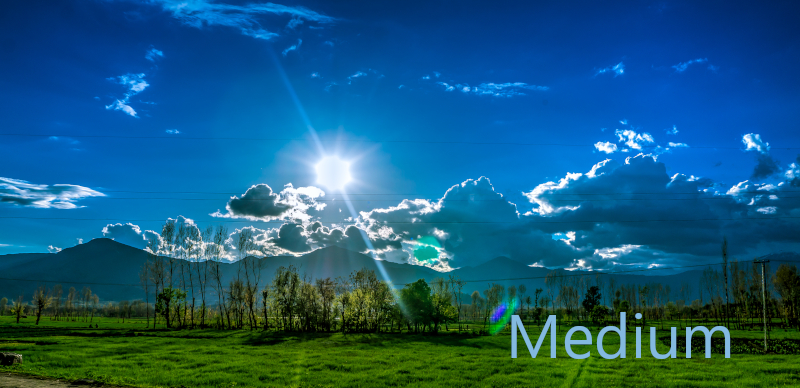
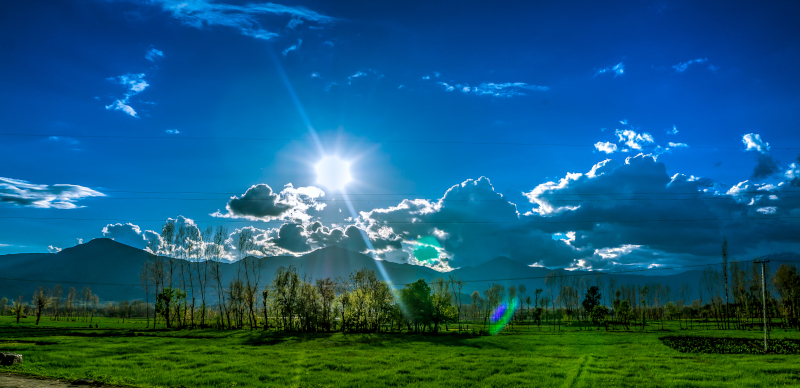
font changes and image updates

Changed region(s): [[0.625, 0.8041, 0.9375, 0.9278]]

diff --git a/assignments/weathersite/gallery.html b/assignments/weathersite/gallery.html
@@ -7,12 +7,13 @@
     <meta name="author" content="Thor Larsen">
     <meta name="description" content="Weather site project">
     <title>ActiveWeather.info | Gallery</title>
+    <link href="https://fonts.googleapis.com/css?family=Roboto" rel="stylesheet">
+    <link href="https://fonts.googleapis.com/css?family=Archivo+Narrow" rel="stylesheet"> 
     <link href="css/normalize.css" rel="stylesheet">
     <link href="css/small.css" rel="stylesheet">
     <link href="css/large.css" rel="stylesheet">
     <link href="css/medium.css" rel="stylesheet">
-    <link href="https://fonts.googleapis.com/css?family=Roboto" rel="stylesheet">
-    <link href="https://fonts.googleapis.com/css?family=Montserrat" rel="stylesheet"> 
+
 </head>
 <body>
     <header>
@@ -69,6 +70,8 @@
                 </figure>
             </div>
         </section>
+    </main>
+    <footer>
         <section class="contact">
             <iframe src="https://www.google.com/maps/embed?pb=!1m18!1m12!1m3!1d112629.21514714143!2d-111.94128591438759!3d42.1144955518364!2m3!1f0!2f0!3f0!3m2!1i1024!2i768!4f13.1!3m3!1m2!1s0x8754f78c7cda6c31%3A0xf1b3b4fc465a4a3f!2sPreston%2C+ID+83263!5e0!3m2!1sen!2sus!4v1549773533232" frameborder="0" style="border:0" allowfullscreen></iframe>
             <div class="address">
@@ -81,8 +84,6 @@
             </span>
             </div>
         </section>
-    </main>
-    <footer>
         <p>&copy; <span id=copyrightYear></span> Thor Larsen - Houston, Texas - <a href="http://www.byui.edu/online">BYU-Idaho Online</a></p>
         <span id="currentDate"></span>
     </footer>

diff --git a/assignments/weathersite/stormcenter.html b/assignments/weathersite/stormcenter.html
@@ -9,7 +9,7 @@
     <title>ActiveWeather.info | Storm Center</title>
     <link href="css/normalize.css" rel="stylesheet">
     <link href="https://fonts.googleapis.com/css?family=Roboto" rel="stylesheet">
-    <link href="https://fonts.googleapis.com/css?family=Montserrat" rel="stylesheet"> 
+    <link href="https://fonts.googleapis.com/css?family=Archivo+Narrow" rel="stylesheet"> 
     <link href="css/small.css" rel="stylesheet">
     <link href="css/large.css" rel="stylesheet">
     <link href="css/medium.css" rel="stylesheet">
@@ -83,6 +83,8 @@
                 <input type="submit" class="button" value="Send my report" >
             </form>
         </section>
+    </main>
+    <footer>
         <section class="contact">
             <iframe src="https://www.google.com/maps/embed?pb=!1m18!1m12!1m3!1d112629.21514714143!2d-111.94128591438759!3d42.1144955518364!2m3!1f0!2f0!3f0!3m2!1i1024!2i768!4f13.1!3m3!1m2!1s0x8754f78c7cda6c31%3A0xf1b3b4fc465a4a3f!2sPreston%2C+ID+83263!5e0!3m2!1sen!2sus!4v1549773533232" allowfullscreen></iframe>
             <div class="address">
@@ -95,8 +97,6 @@
             </span>
             </div>
         </section>
-    </main>
-    <footer>
         <p>&copy; <span id=copyrightYear></span> Thor Larsen - Houston, Texas - <a href="http://www.byui.edu/online">BYU-Idaho Online</a></p>
         <span id="currentDate"></span>
     </footer>

diff --git a/assignments/weathersite/index.html b/assignments/weathersite/index.html
@@ -9,7 +9,7 @@
     <title>ActiveWeather.info | Home</title>
     <link href="css/normalize.css" rel="stylesheet">
     <link href="https://fonts.googleapis.com/css?family=Roboto" rel="stylesheet">
-    <link href="https://fonts.googleapis.com/css?family=Montserrat" rel="stylesheet"> 
+    <link href="https://fonts.googleapis.com/css?family=Archivo+Narrow" rel="stylesheet"> 
     <link href="css/small.css" rel="stylesheet">
     <link href="css/large.css" rel="stylesheet">
     <link href="css/medium.css" rel="stylesheet">
@@ -43,6 +43,20 @@
         <section id="townarticles">
 
         </section>
+        <article id="story1">
+            <picture>
+                <img src="images/idahospring-500w.jpg" alt="Main Street, Preston, ID" />
+            </picture>
+            <h3>Idaho Spring</h3>
+            <p class="byline">by Les Nessman</p>
+            <p>
+                It takes spring quite a while to come to Idaho, but when it does 
+                it evicts winter with a vengeance. Mountainsides and meadows come
+                alive with color. Insects make up for the time lost over winter.
+                Ice breaks its grip over the lakes and streams allowing the fish 
+                to feed and prepare for spawning.
+            </p>
+        </article>
     </main>
     <footer>
         <section class="contact">

diff --git a/assignments/weathersite/preston.html b/assignments/weathersite/preston.html
@@ -8,7 +8,7 @@
 		<meta name="description" content="Part 1 of the Weather site project" />
 		<title>ActiveWeather.info | Preston</title>
 		<link href="https://fonts.googleapis.com/css?family=Roboto" rel="stylesheet" />
-		<link href="https://fonts.googleapis.com/css?family=Montserrat" rel="stylesheet" />
+		<link href="https://fonts.googleapis.com/css?family=Archivo+Narrow" rel="stylesheet" />
 		<link href="css/normalize.css" rel="stylesheet" />
 		<link href="css/small.css" rel="stylesheet" />
 		<link href="css/large.css" rel="stylesheet" />
@@ -46,8 +46,8 @@
 					<picture>
 						<source media="(min-width: 801px)" srcset="images/cit230_image_franklin-1200w.jpeg" />
 						<source media="(min-width: 501px)" srcset="images/cit230_image_franklin-800w.jpeg" />
-						<source media="(max-width: 500px)" srcset="images/cit230_image_franklinsmall.jpeg" />
-						<img id="heroimg" src="images/cit230_image_franklinsmall.jpeg" alt="Panorama" />
+						<source media="(max-width: 500px)" srcset="images/cit230_image_franklin-400w.jpeg" />
+						<img id="heroimg" src="images/cit230_image_franklin-400w.jpeg" alt="Panorama" />
 					</picture>
 					<article class="weather">
 						<!--Dynamically created html from weatherapi.js-->

diff --git a/assignments/weathersite/sodasprings.html b/assignments/weathersite/sodasprings.html
@@ -8,7 +8,7 @@
     <meta name="description" content="Part 1 of the Weather site project">
     <title>ActiveWeather.info | Soda Springs</title>
     <link href="https://fonts.googleapis.com/css?family=Roboto" rel="stylesheet">
-    <link href="https://fonts.googleapis.com/css?family=Montserrat" rel="stylesheet"> 
+    <link href="https://fonts.googleapis.com/css?family=Archivo+Narrow" rel="stylesheet"> 
     <link href="css/normalize.css" rel="stylesheet">
     <link href="css/small.css" rel="stylesheet">
     <link href="css/large.css" rel="stylesheet">

diff --git a/assignments/weathersite/css/medium.css b/assignments/weathersite/css/medium.css
@@ -19,8 +19,8 @@
         align-items: center;
         border: 2px solid #063a5e;
         margin: 5px;
-        background-image: radial-gradient( white, #84B9DF);
-        box-shadow: 0 0 10px #ffd350;
+        background-image: radial-gradient( white, #ffd350);
+        box-shadow: 0 0 20px #84B9DF;
     }
 
     #forecasttable article p { margin: 5px; }

diff --git a/assignments/weathersite/css/small.css b/assignments/weathersite/css/small.css
@@ -8,7 +8,7 @@ body {
 }
 
 h1,h2,h3,h4,h5,h6 {
-    font-family: 'Montserrat', sans-serif;
+    font-family: "Archivo Narrow", sans-serif;
     margin: 5px;
 }
 
